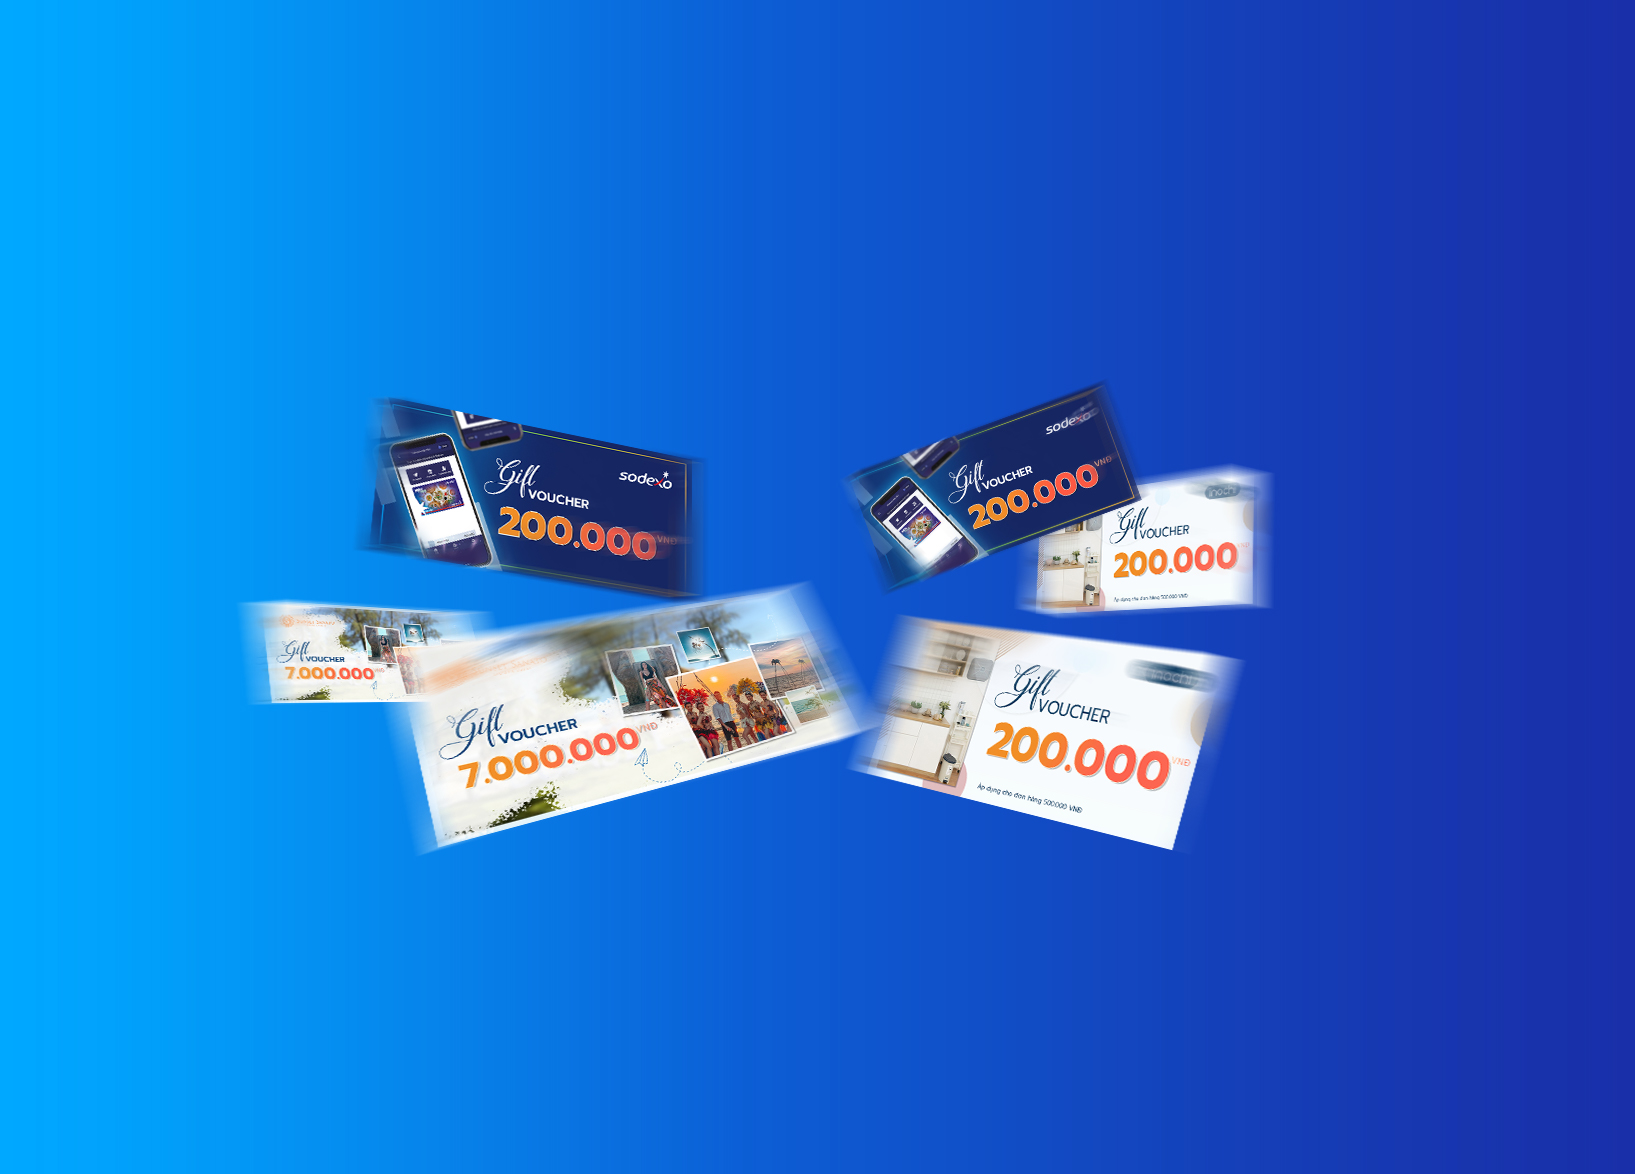
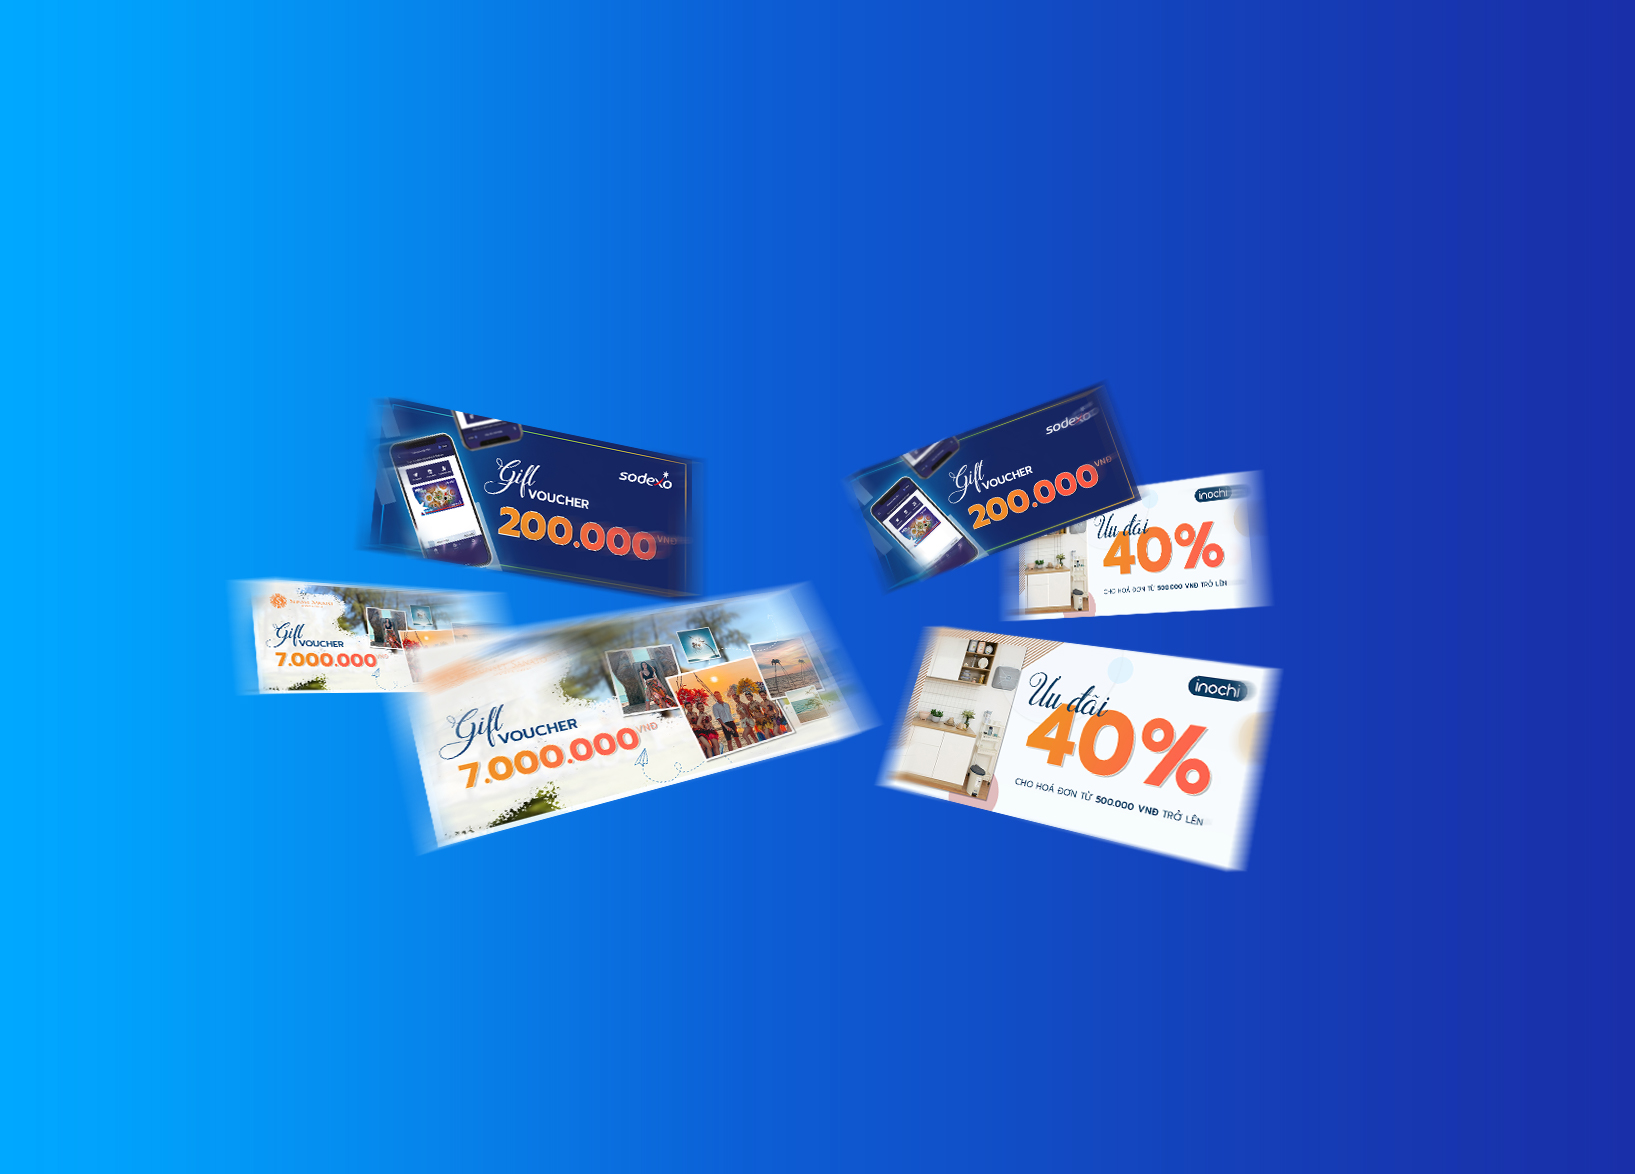
udpate

Changed region(s): [[0.4991, 0.3986, 0.7798, 0.7359], [0.1248, 0.4906, 0.3119, 0.6133]]

diff --git a/thongtinquatang.html b/thongtinquatang.html
@@ -128,23 +128,23 @@ height="0" width="0" style="display:none;visibility:hidden"></iframe></noscript>
         <div class="row justify-content-center">
             <div class="col-md-12 col-lg-10">
                 <h3 class="mbr-section-title mbr-fonts-style mb-4 display-2">Điều khoản chương trình</h3>
-                <p class="mbr-text mbr-fonts-style display-7">5.000 đáp viên đầu tiên hoàn thành Khảo sát hợp lệ sẽ nhận ngay:</p> 
+                <p class="mbr-text mbr-fonts-style display-7"><strong>5.000</strong> đáp viên đầu tiên hoàn thành Khảo sát hợp lệ sẽ nhận ngay:</p> 
                 <ul class="list mbr-fonts-style display-7">
-                    <li>Voucher ưu đãi 40% cho đơn hàng Inochi từ 500.000VNĐ</li><li><span style="font-size: 1rem;">Mã bốc thăm trúng thưởng:</span><br></li><li class="list-child"><ul>                
-                            <li>Phiếu ăn điện tử Sodexo Meal Pass trị giá 200.000VNĐ qua chương trình quay số may mắn hàng tuần</li> 
-                            <li>Gói nghỉ dưỡng “Suncation” tại Sunset Sanato Resort &amp; Villas trị giá 7.000.000VND qua chương trình quay số may mắn mỗi hai tuần</li>
+                    <li>Voucher ưu đãi <strong>40%</strong> cho đơn hàng Inochi từ <strong>500.000 VNĐ</strong></li><li><span style="font-size: 1rem;">Mã bốc thăm trúng thưởng:</span><br></li><li class="list-child"><ul>                
+                            <li>Phiếu ăn điện tử <strong>Sodexo Meal Pass</strong> trị giá <strong>200.000 VNĐ </strong>qua chương trình quay số may mắn hàng tuần</li> 
+                            <li>Gói nghỉ dưỡng “Suncation” tại <strong>Sunset Sanato Resort &amp; Villas</strong> trị giá <strong>7.000.000 VND</strong> qua chương trình quay số may mắn mỗi hai tuần</li>
                         </ul>
                     </li>
                 </ul>                
                 <p class="mbr-text mbr-fonts-style display-7"><em>Lưu ý: Anphabe chỉ ghi nhận và tặng quà cho những khảo sát hợp lệ</em></p>
                 <h4 class="mbr-section-subtitle mbr-fonts-style mb-3 mt-4 display-2">Điều khoản chương trình rút thăm may mắn</h4>
-                <p class="mbr-text mbr-fonts-style mt-7 display-7">Đáp viên may mắn sẽ được hệ thống lựa chọn ngẫu nhiên và gửi thông báo về quà tặng qua email đã đăng ký khi tham gia khảo sát. Đáp viên may mắn vui lòng xác nhận thông tin nhận quà qua email trong vòng 3 ngày làm việc kể từ khi nhận thông báo trúng thưởng của Ban tổ chức.</p>
-                <p class="mbr-text mbr-fonts-style mt-7 display-7">Việc quay số may mắn được thực hiện vào thứ 6 hằng tuần và kết quả được thông báo trên kênh <a href="https://www.facebook.com/anphabe" class="text-primary" target="_blank">Facebook</a> chính thức của Anphabe.</p>                
+                <p class="mbr-text mbr-fonts-style mt-7 display-7">Đáp viên may mắn sẽ được hệ thống lựa chọn ngẫu nhiên và gửi thông báo về quà tặng qua email đã đăng ký khi tham gia khảo sát. Đáp viên may mắn vui lòng xác nhận thông tin nhận quà qua email trong vòng <strong>3 ngày</strong> làm việc kể từ khi nhận thông báo trúng thưởng của Ban tổ chức.</p>
+                <p class="mbr-text mbr-fonts-style mt-7 display-7">Việc quay số may mắn được thực hiện vào thứ <strong>6</strong> hằng tuần và kết quả được thông báo trên kênh <a href="https://www.facebook.com/anphabe" class="text-primary" target="_blank"><strong>Facebook</strong></a> chính thức của Anphabe.</p>                
 
-                <p class="mbr-text mbr-fonts-style mt-7 display-7">Số lượng đáp viên may mắn<br></p>
+                <p class="mbr-text mbr-fonts-style mt-7 display-7">Số lượng quà tặng may mắn:<br></p>
                 <ul class="list mbr-fonts-style display-7">
-                    <li>Phiếu ăn điện tử Sodexo Meal Pass trị giá 200.000 VNĐ - Hai mươi (20) đáp viên/tuần</li>
-                    <li>Gói nghỉ dưỡng “Suncation” tại Sunset Sanato Resort &amp; Villas trị giá 7.000.000 VND - Một (01) đáp viên/2 tuần</li>
+                    <li>Hai mươi (<strong>20</strong>) phiếu ăn điện tử <strong>Sodexo Meal Pass</strong> trị giá <strong>200.000 VNĐ /&nbsp;</strong>tuần</li>
+                    <li>Một (<strong>01</strong>) gói nghỉ dưỡng “Suncation” tại <strong>Sunset Sanato Resort &amp; Villas</strong> trị giá<strong> 7.000.000 VND</strong> /&nbsp;2 tuần</li>
                 </ul>
 
                 <div class="mbr-section-btn mt-3 fade-in-up"><a class="btn btn-primary display-4" href="https://insights-w2.anphabe.com/">NHẬN VOUCHER ➝</a></div>
@@ -163,7 +163,7 @@ height="0" width="0" style="display:none;visibility:hidden"></iframe></noscript>
             <div class="col-12 col-lg-6 col-lg">
                 <div class="text-wrapper">
                     <h3 class="mbr-section-title mbr-fonts-style mb-3 display-2">Quà tặng Inochi<br></h3>
-                    <p class="mbr-text mbr-fonts-style display-7">Voucher ưu đãi <strong>40%</strong> cho hoá đơn từ <strong>500.000VNĐ</strong></p>
+                    <p class="mbr-text mbr-fonts-style display-7">Voucher ưu đãi <strong>40%</strong> cho hoá đơn từ <strong>500.000 VNĐ</strong></p>
                     <ul class="list mbr-fonts-style display-7">
                         <li>Một hoá đơn chỉ được áp dụng 01 voucher</li>
                         <li>Voucher được áp dụng tại hệ thống showroom Inochi trên toàn quốc và trên Apps Inochi</li>
@@ -199,13 +199,13 @@ height="0" width="0" style="display:none;visibility:hidden"></iframe></noscript>
             <div class="col-12 col-lg-6 col-lg">
                 <div class="text-wrapper">
                     <h3 class="mbr-section-title mbr-fonts-style mb-3 display-2">Quà tặng Sunset Sanato</h3>
-                    <p class="mbr-text mbr-fonts-style display-7">Gói nghỉ dưỡng “Suncation” trị giá 7.000.000 VND tại Sunset Sanato Resort   Villas</p>
+                    <p class="mbr-text mbr-fonts-style display-7">Gói nghỉ dưỡng “Suncation” trị giá <strong>7.000.000 VND</strong> tại Sunset Sanato Resort   Villas</p>
                     <ul class="list mbr-fonts-style display-7">
-                        <li>02 đêm nghỉ dưỡng tại phòng Deluxe</li>
-                        <li>02 Buffet sáng cho 02 người lớn</li>
-                        <li>Giảm 15% chi phí dịch vụ F&amp;B</li>
+                        <li><strong>02</strong> đêm nghỉ dưỡng tại phòng Deluxe</li>
+                        <li><strong>02</strong> Buffet sáng cho 02 người lớn</li>
+                        <li>Giảm <strong>15%</strong> chi phí dịch vụ F&amp;B</li>
                         <li>Miễn phí vé vào cổng chụp hình check–in tại bãi biển Sunset Sanato</li>
-                        <li>02 ly cocktail dùng tại Beach Club</li>
+                        <li><strong>02</strong> ly cocktail dùng tại Beach Club</li>
                         <li>Hạn sử dụng: <strong>6</strong> tháng kể từ ngày phát hành</li>
                     </ul>
                 </div>
@@ -229,12 +229,12 @@ height="0" width="0" style="display:none;visibility:hidden"></iframe></noscript>
             <div class="col-12 col-lg-6 col-lg">
                 <div class="text-wrapper">
                     <h3 class="mbr-section-title mbr-fonts-style mb-3 display-2">Quà tặng Sodexo Meal Pass<br></h3>
-                    <p class="mbr-text mbr-fonts-style display-7">Phiếu ăn điện tử Sodexo Meal Pass trị giá 200.000VNĐ</p>
+                    <p class="mbr-text mbr-fonts-style display-7">Phiếu ăn điện tử Sodexo Meal Pass trị giá <strong>200.000 VNĐ</strong></p>
                     <ul class="list mbr-fonts-style display-7">
                         <li>Tải ứng dụng Sodexo Pass Vietnam và đăng ký tài khoản để thanh toán</li>
                         <li>Địa điểm sử dụng Sodexo Meal Pass: <a href="https://mealpass.vn/" class="text-primary" target="_blank">https://mealpass.vn/</a></li>
                         <li>Không có giá trị quy đổi ra tiền mặt</li>
-                        <li>Hạn sử dụng: 31/12/2022</li>
+                        <li>Hạn sử dụng: <strong>31/12/2022</strong></li>
                     </ul>
                 </div>
                 <div class="mbr-section-btn fade-in-up"><a class="btn btn-primary display-4" href="https://insights-w2.anphabe.com/">NHẬN VOUCHER ➝</a></div>
